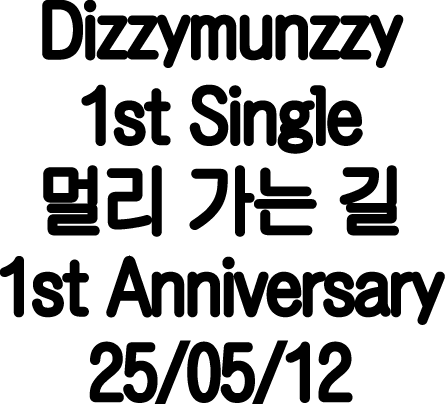
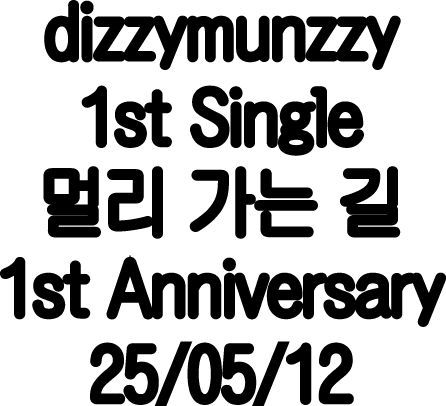
second
second

diff --git a/style.css b/style.css
@@ -192,3 +192,44 @@ body, html {
     position: static;    /* 부모인 .initial-link의 정렬을 따름 */
     transform: none;     /* 부모가 이미 transform 중이므로 초기화 */
 }
+
+/* 너비를 1024px로 넉넉하게 잡아 PC 창을 줄였을 때와 모바일을 모두 포함합니다 */
+@media screen and (max-width: 1024px) {
+
+    /* 1. 배경 레이어 설정 확인 */
+    .decoration-layer {
+        position: fixed !important; 
+        width: 100% !important;
+        height: 100% !important;
+    }
+
+    /* 2. deco1 위치 강제 조정 (좌측 상단) */
+    .deco1 {
+        top: 20px !important;
+        left: 20px !important;
+        right: auto !important;
+        bottom: auto !important;
+        width: 60px !important;
+        transform: none !important;
+    }
+
+    /* 3. deco2 위치 강제 조정 (우측 상단) */
+    .deco2 {
+        top: 20px !important;
+        right: 20px !important;
+        left: auto !important;
+        bottom: auto !important;
+        width: 60px !important;
+        transform: none !important;
+    }
+
+    /* 4. deco3 (큰 배경 장식) 위치 조정 */
+    .deco3 {
+        top: 50% !important;
+        left: 50% !important;
+        transform: translate(-50%, -50%) !important;
+        width: 80% !important;
+        height: auto !important;
+        opacity: 0.3 !important; /* 모바일에선 너무 진하면 방해되므로 흐리게 */
+    }
+}

diff --git a/index.html b/index.html
@@ -4,6 +4,7 @@
     <meta charset="UTF-8">
     <title>멀리 가는 길: The First Archive</title>
     <link rel="stylesheet" href="style.css">
+    <meta name="viewport" content="width=device-width, initial-scale=1.0">
 </head>
 <body>
     <!-- 1. 배경 장식용 레이어 (맨 뒷배경, 화면 전체 기준) -->